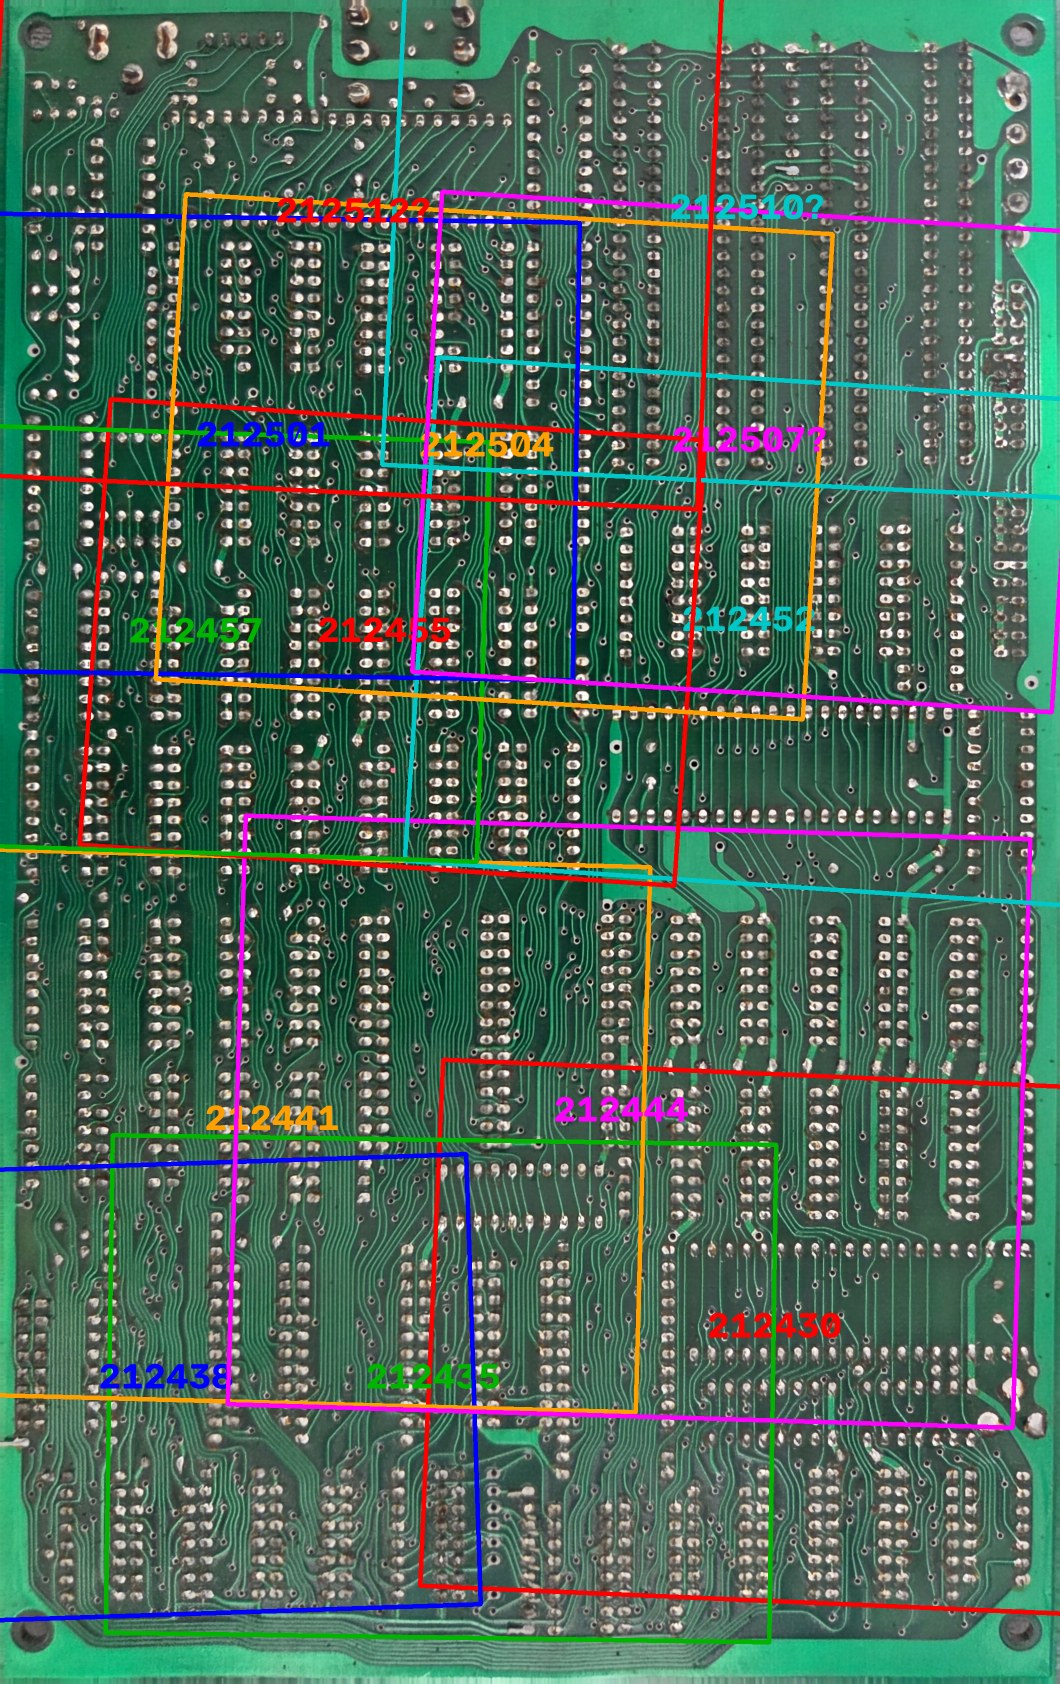
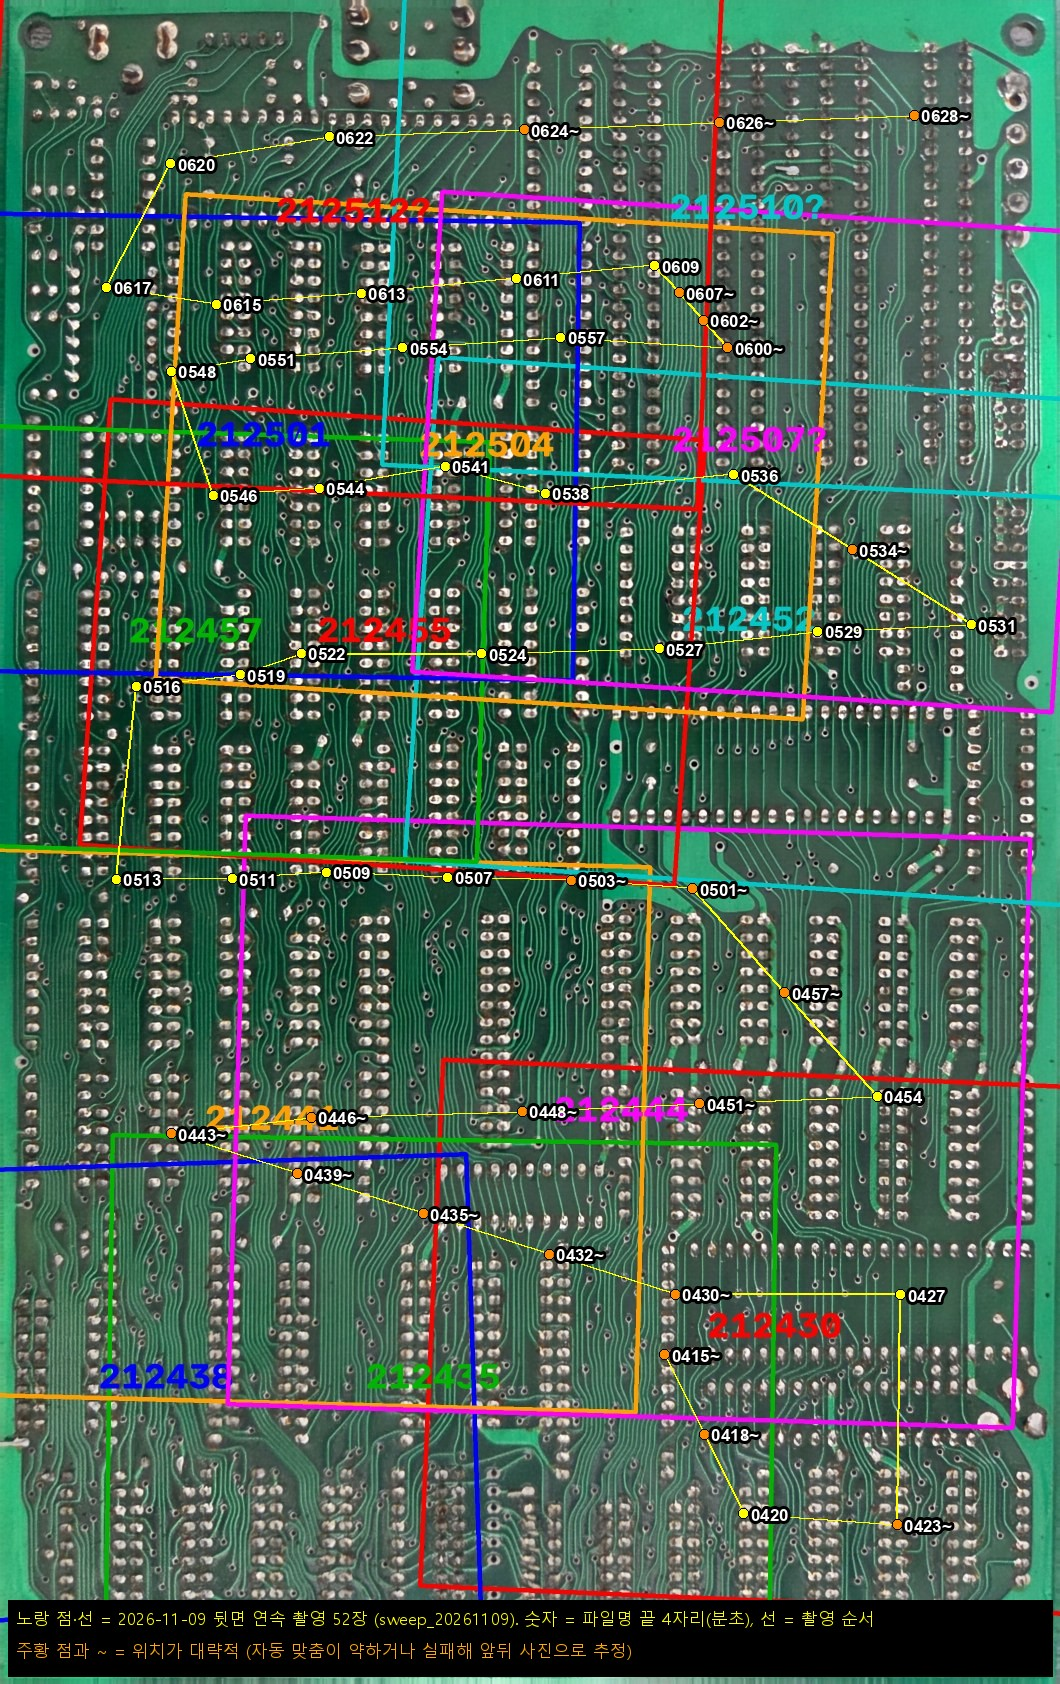
뒷면 연속 촬영 52장 추가 및 위치 정합, X1 위치 정정
- photos/zoom/back/sweep_20261109/ 52장 (아래→위 지그재그)
- data/back_sweep_20261109_registration.json: 뒷면 기준 사진에 자동 정합 (30/52)
- analysis/back_zoom_coverage.jpg에 촬영 위치·순서 표시 추가
- X1 수정은 U64 밑에 있어 위에서 안 보임 (사용자 확인) → BOM·사진 목록 정정

diff --git a/photos/README.md b/photos/README.md
@@ -17,6 +17,7 @@ photos/
 ├── zoom/front/       앞면 확대 18장
 ├── zoom/front/chips_20261109/  앞면 칩 표기 전수 촬영 77장 (2026-11-09)
 ├── zoom/back/        뒷면 확대 19장
+├── zoom/back/sweep_20261109/   뒷면 지그재그 연속 촬영 52장 (2026-11-09)
 ├── backlit/          역광 뒷면 4장 (U64·U30 접사)
 ├── backlit/sweep/    역광 뒷면 전체 훑기 9장
 ├── case/             케이스 표기·전원 공급기 3장
@@ -191,7 +192,7 @@ photos/
 | zoom/front/20261108_230032_U4-U15_U21-U28_rows.jpg | U4–U15, U21–U28, U34–U38 줄 (BOM과 일치 확인) |
 | zoom/back/20261108_232044_back-right_Z80-LM339-area.jpg | 뒷면 오른쪽 (Z80·LM339 구역) |
 | zoom/front/20261109_004430_U72-replaced_GD74LS04.jpg | U72를 GoldStar GD74LS04로 교체한 모습 (반달 홈 = 트리머 쪽) |
-| zoom/front/20261109_012438_trimmer_X1_U72-original.jpg | 트리머 T1(분홍 세라믹, 홈 세로 방향 = 2026-11-09 기준 위치), 옆 은색 원통 = X1 수정, U72 원래 칩(M74LS04P)으로 되돌린 상태, 오른쪽 저항 2개 |
+| zoom/front/20261109_012438_trimmer_X1_U72-original.jpg | 트리머 T1(분홍 세라믹, 홈 세로 방향 = 2026-11-09 기준 위치), 옆 회색 부분은 X1 수정의 끝으로 추정 (수정 본체는 U64 밑에 있어 안 보임, 사용자 확인), U72 원래 칩(M74LS04P)으로 되돌린 상태, 오른쪽 저항 2개 |
 | zoom/front/20261109_012448_trimmer-area_wide.jpg | 같은 구역 넓게 |
 | zoom/front/20261109_021819_trimmer_side-legs_2.jpg | 트리머 옆에서: 흰 세라믹 몸체가 금속 다리 2개 위에 떠 있고, 다리 아래 납땜에 갈색 얼룩(산화·플럭스 추정) |
 | zoom/back/20261108_225042_back-right-edge_RCA-corner.jpg | 뒷면 오른쪽 가장자리, RCA 고정 납땜(아래) |
@@ -227,6 +228,15 @@ photos/
 | 205203 | Q1 KEC C1815 접사, VIDEO RCA 단자 주변 저항·탄탈 |
 
 이 묶음으로 확인 못 한 것: U17 품번(윗면 무표기), Q2 표기, U70 정확한 품번(NEC 흔적만).
+
+## 뒷면 연속 촬영 `zoom/back/sweep_20261109/` (2026-11-09 21:04–21:06), 52장
+
+사용자가 MYBOX 폴더로 올린 뒷면 근접 사진입니다. 보드를 90° 돌린 채(슬롯이 오른쪽), **뒷면 아래쪽 가장자리부터 지그재그로 한 줄씩 위로** 훑으며 찍었습니다. 파일명 시각 순서가 곧 촬영 경로입니다. 한 장에 칩 5~8개 정도가 들어가는 배율로, 기존 뒷면 확대 사진(2026-11-05)보다 촘촘합니다.
+
+- **위치**: 각 사진의 위치를 뒷면 기준 사진(203240)에 자동으로 맞춘 결과가 [`data/back_sweep_20261109_registration.json`](../data/back_sweep_20261109_registration.json)에 있습니다 (도구: `tools/register_back_zoom.py`). 52장 중 30장은 잘 맞았고, 나머지는 맞춤이 약하거나 실패해 앞뒤 사진으로 위치를 추정했습니다. 21:06:24 사진은 배율이 튀어 결과를 쓰지 않았습니다.
+- **위치 그림**: 기존 [`analysis/back_zoom_coverage.jpg`](../analysis/back_zoom_coverage.jpg)에 노란 점과 선(촬영 순서)으로 추가했습니다. 숫자는 파일명 끝 4자리(분초), `~`는 위치가 대략적인 사진입니다.
+- **경로 요약**: 0412–0430 맨 아래 줄(오른쪽 아래 전원 납땜 포함) → 0435–0454 둘째 줄 → 0457–0513 셋째 줄 → 0516–0531 넷째 줄 → 0534–0548 다섯째 줄 → 0551–0609 여섯째 줄(슬롯 납땜 열) → 0611–0617 → 0620–0628 맨 위 줄(RCA·잭 쪽 모서리, 고정 구멍).
+- **보이는 것**: 칩 핀 사이에 굵은 연두색 짧은 패턴이 많은데, 확대해 보면 레지스트 밑의 **넓은 전원·GND 패턴**이 핀으로 이어지는 원래 배선입니다 (수리 흔적 아님). 납땜부 다수에 갈색 플럭스 잔여·산화 얼룩이 있습니다 (트리머 다리와 같은 상태). 이 해상도에서 눈에 띄는 납땜 금이나 끊긴 패턴은 찾지 못했지만, 정밀 점검은 아님.
 
 ## 추가로 필요한 사진
 

diff --git a/docs/03-bom.md b/docs/03-bom.md
@@ -110,7 +110,7 @@
 | Q2 | 트랜지스터 TO-92 | - | I/O (게임·카세트·스피커) | 추정 | J8 옆. 스피커 구동 추정 |
 | J9 | 16핀 DIP 소켓 | - | I/O (게임·카세트·스피커) | 확인 | 게임 I/O 포트 (Apple II J14 상당) |
 | J10 | 핀 헤더 2×8 (ㄱ자) | - | 키보드 단자 | 확인 | 16핀 라이트앵글. 옆에 미실장 패드 7개. 키보드 케이블이 꽂혀 있어 키보드 단자로 확정 (2026-11-07). 케이스 반대쪽 끝 2핀 GND (슬롯1 핀 26과 도통). 전체 핀 배치는 [05 "키보드 단자 J10"](05-interface-pinouts.md) (2026-11-08) |
-| X1 | 수정 발진자 + 트리머 콘덴서 | - | 클럭 / 타이밍 | 확인 | 소형 금속 캔 수정 + 세라믹 트리머 + 저항 2개(U64 아래 가로 배치) + U72 74LS04 = Apple II식 수정 발진 회로. 주파수 표기 미확인, 14.31818MHz 추정 |
+| X1 | 수정 발진자 + 트리머 콘덴서 | - | 클럭 / 타이밍 | 확인 | 수정 + 세라믹 트리머 + 저항 2개 + U72 74LS04 = Apple II식 수정 발진 회로. **수정(XTAL)은 U64(두 번째 6502) 몸체 밑에 있어 위에서 안 보임** (사용자 확인 2026-11-09) → 주파수 표기 미확인, 14.31818MHz 추정. 트리머 옆 회색 부분이 수정 캔 끝일 수 있음 (추정). 표기 확인은 U64를 소켓에서 뺀 뒤 가능 |
 
 ## 부품 집계 (IC)
 
